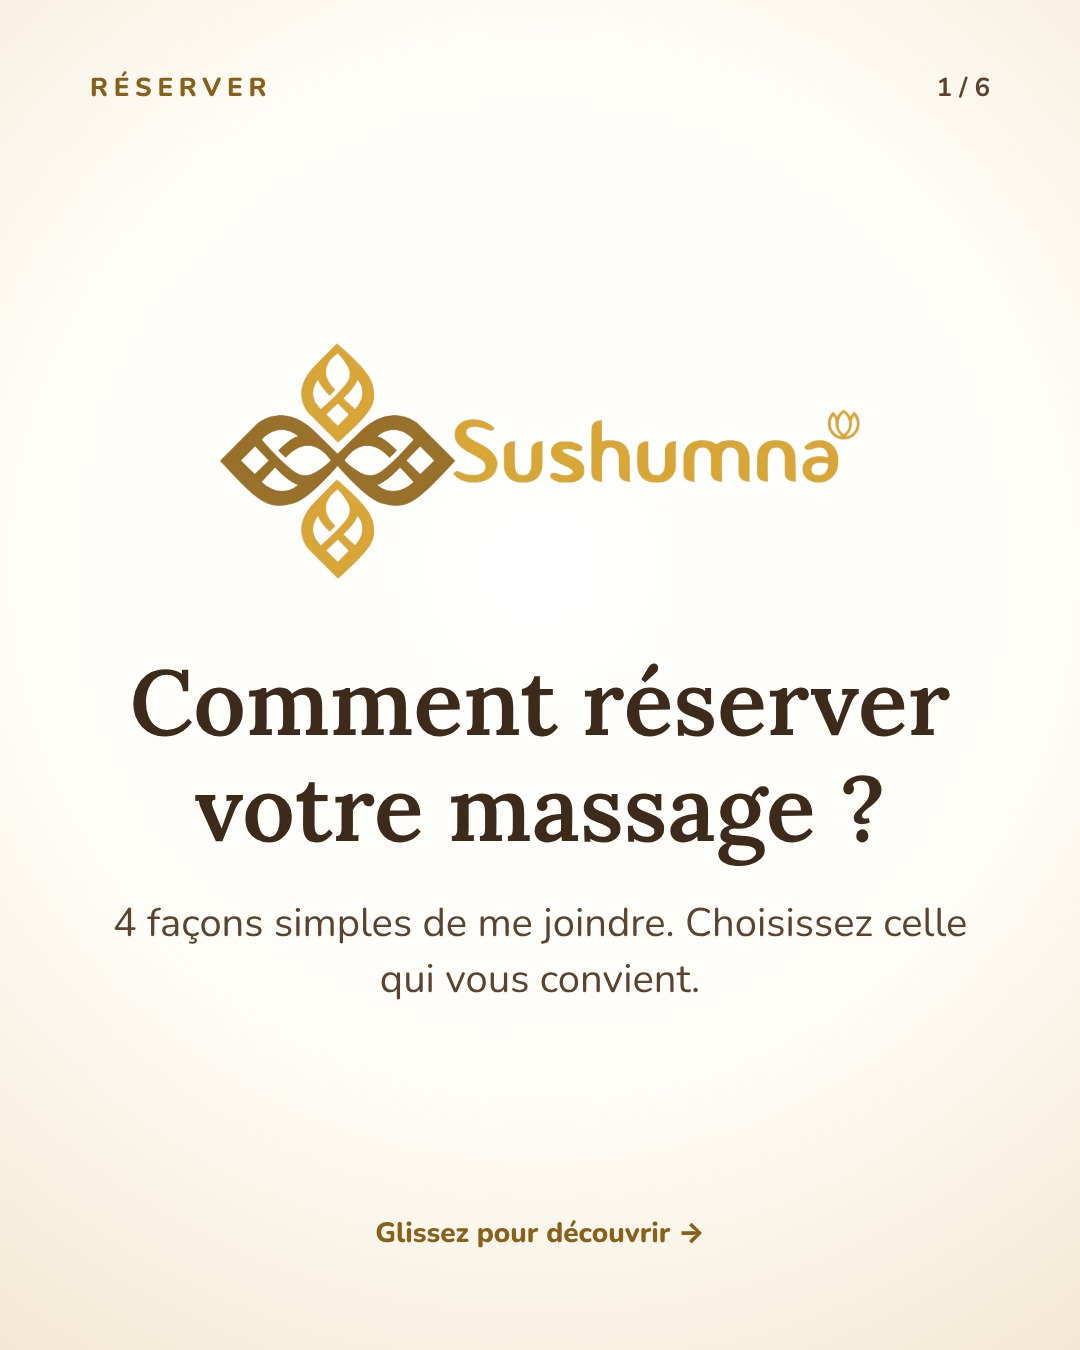
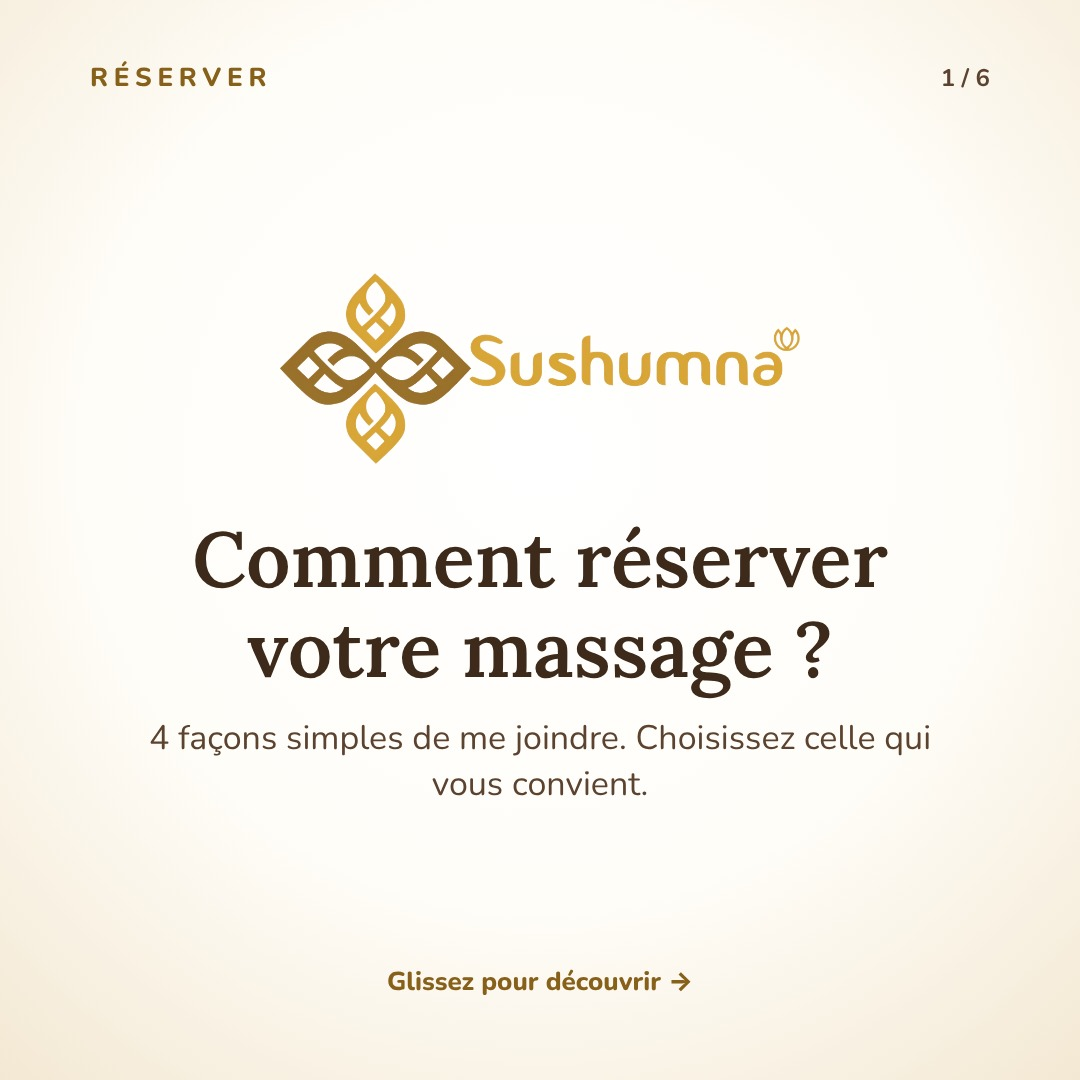
Graphisme : carrousel « Comment réserver » en carré 1080 × 1080
Claude-Session: https://claude.ai/code/session_01FhKW6d7NffjTyYvYf6zG3G

diff --git a/graphisme/sources/44-carrousel-reserver-couverture.html b/graphisme/sources/44-carrousel-reserver-couverture.html
@@ -27,9 +27,16 @@ body{width:var(--w);height:var(--h);overflow:hidden;background:var(--creme);colo
 .rond .ico{width:130px;height:130px;color:var(--brun-logo)}
 .titre{font-size:92px;margin:0 0 34px}
 .texte{font-size:40px;line-height:1.4;color:var(--brun-doux);max-width:860px;margin:0}
-.pied{position:absolute;bottom:70px;left:90px;right:90px;font-size:28px;font-weight:800;color:var(--or-texte);text-align:center}</style>
+.pied{position:absolute;bottom:70px;left:90px;right:90px;font-size:28px;font-weight:800;color:var(--or-texte);text-align:center}.page{padding:0 90px}
+.haut{top:60px}
+.rond{width:230px;height:230px;margin-bottom:40px}
+.rond .ico{width:100px;height:100px}
+.titre{font-size:78px;margin:0 0 22px}
+.texte{font-size:34px;line-height:1.35}
+.pied{bottom:55px;font-size:26px}
+.compteur{font-size:24px}</style>
 </head>
-<body style="--w:1080px;--h:1350px">
+<body style="--w:1080px;--h:1080px">
 <svg width="0" height="0" style="position:absolute" aria-hidden="true">
   <symbol id="tel" viewBox="0 0 24 24"><path fill="none" stroke="currentColor" stroke-width="2" stroke-linecap="round" stroke-linejoin="round" d="M22 16.9v3a2 2 0 0 1-2.2 2 19.8 19.8 0 0 1-8.6-3.1 19.5 19.5 0 0 1-6-6A19.8 19.8 0 0 1 2.1 4.2 2 2 0 0 1 4.1 2h3a2 2 0 0 1 2 1.7c.1 1 .4 1.9.7 2.8a2 2 0 0 1-.5 2.1L8 9.9a16 16 0 0 0 6 6l1.3-1.3a2 2 0 0 1 2.1-.4c.9.3 1.8.6 2.8.7a2 2 0 0 1 1.7 2z"/></symbol>
   <symbol id="mail" viewBox="0 0 24 24"><g fill="none" stroke="currentColor" stroke-width="2" stroke-linecap="round" stroke-linejoin="round"><rect x="2" y="4" width="20" height="16" rx="2"/><path d="m22 7-10 6L2 7"/></g></symbol>
@@ -47,7 +54,7 @@ body{width:var(--w);height:var(--h);overflow:hidden;background:var(--creme);colo
   <symbol id="discussion" viewBox="0 0 24 24"><path fill="none" stroke="currentColor" stroke-width="2" stroke-linecap="round" stroke-linejoin="round" d="M21 15a2 2 0 0 1-2 2H7l-4 4V5a2 2 0 0 1 2-2h14a2 2 0 0 1 2 2z"/></symbol>
 </svg>
 <div class="page"><div class="haut"><span class="surtitre">Réserver</span><span class="compteur">1 / 6</span></div>
-<img src="../assets/logo-hd.png" alt="Sushumna" style="width:640px;height:auto;margin-bottom:70px">
+<img src="../assets/logo-hd.png" alt="Sushumna" style="width:520px;height:auto;margin-bottom:50px">
 <h1 class="titre">Comment réserver votre massage&nbsp;?</h1>
 <p class="texte">4 façons simples de me joindre. Choisissez celle qui vous convient.</p>
 <p class="pied">Glissez pour découvrir →</p></div>

diff --git a/graphisme/generer.js b/graphisme/generer.js
@@ -471,6 +471,16 @@ const CSS_CARROUSEL = `.page{justify-content:center;background:radial-gradient(c
 .texte{font-size:40px;line-height:1.4;color:var(--brun-doux);max-width:860px;margin:0}
 .pied{position:absolute;bottom:70px;left:90px;right:90px;font-size:28px;font-weight:800;color:var(--or-texte);text-align:center}`;
 
+/* Version carrée : éléments resserrés pour tenir dans 1080 × 1080 */
+const CSS_CARROUSEL_CARRE = `.page{padding:0 90px}
+.haut{top:60px}
+.rond{width:230px;height:230px;margin-bottom:40px}
+.rond .ico{width:100px;height:100px}
+.titre{font-size:78px;margin:0 0 22px}
+.texte{font-size:34px;line-height:1.35}
+.pied{bottom:55px;font-size:26px}
+.compteur{font-size:24px}`;
+
 CARROUSEL_RESERVER.forEach((diapo, i) => {
   const numero = String(44 + i).padStart(2, '0');
   const compteur = `${i + 1} / ${CARROUSEL_RESERVER.length}`;
@@ -479,7 +489,7 @@ CARROUSEL_RESERVER.forEach((diapo, i) => {
   if (diapo.nom === 'couverture') {
     nom = `${numero}-carrousel-reserver-couverture`;
     corps = `<div class="haut"><span class="surtitre">Réserver</span><span class="compteur">${compteur}</span></div>
-<img src="../assets/logo-hd.png" alt="Sushumna" style="width:640px;height:auto;margin-bottom:70px">
+<img src="../assets/logo-hd.png" alt="Sushumna" style="width:520px;height:auto;margin-bottom:50px">
 <h1 class="titre">Comment réserver votre massage&nbsp;?</h1>
 <p class="texte">4 façons simples de me joindre. Choisissez celle qui vous convient.</p>
 <p class="pied">Glissez pour découvrir →</p>`;
@@ -499,8 +509,8 @@ CARROUSEL_RESERVER.forEach((diapo, i) => {
 <p class="pied">${diapo.pied} ${i < CARROUSEL_RESERVER.length - 1 ? '→' : ''}</p>`;
   }
   PAGES.push({
-    nom, w: 1080, h: 1350, echelle: 1,
-    html: document_({ w: 1080, h: 1350, css: CSS_CARROUSEL, body: corps }),
+    nom, w: 1080, h: 1080, echelle: 1,
+    html: document_({ w: 1080, h: 1080, css: CSS_CARROUSEL + CSS_CARROUSEL_CARRE, body: corps }),
   });
 });
 

diff --git a/graphisme/sources/45-carrousel-reserver-sur-le-site.html b/graphisme/sources/45-carrousel-reserver-sur-le-site.html
@@ -27,9 +27,16 @@ body{width:var(--w);height:var(--h);overflow:hidden;background:var(--creme);colo
 .rond .ico{width:130px;height:130px;color:var(--brun-logo)}
 .titre{font-size:92px;margin:0 0 34px}
 .texte{font-size:40px;line-height:1.4;color:var(--brun-doux);max-width:860px;margin:0}
-.pied{position:absolute;bottom:70px;left:90px;right:90px;font-size:28px;font-weight:800;color:var(--or-texte);text-align:center}</style>
+.pied{position:absolute;bottom:70px;left:90px;right:90px;font-size:28px;font-weight:800;color:var(--or-texte);text-align:center}.page{padding:0 90px}
+.haut{top:60px}
+.rond{width:230px;height:230px;margin-bottom:40px}
+.rond .ico{width:100px;height:100px}
+.titre{font-size:78px;margin:0 0 22px}
+.texte{font-size:34px;line-height:1.35}
+.pied{bottom:55px;font-size:26px}
+.compteur{font-size:24px}</style>
 </head>
-<body style="--w:1080px;--h:1350px">
+<body style="--w:1080px;--h:1080px">
 <svg width="0" height="0" style="position:absolute" aria-hidden="true">
   <symbol id="tel" viewBox="0 0 24 24"><path fill="none" stroke="currentColor" stroke-width="2" stroke-linecap="round" stroke-linejoin="round" d="M22 16.9v3a2 2 0 0 1-2.2 2 19.8 19.8 0 0 1-8.6-3.1 19.5 19.5 0 0 1-6-6A19.8 19.8 0 0 1 2.1 4.2 2 2 0 0 1 4.1 2h3a2 2 0 0 1 2 1.7c.1 1 .4 1.9.7 2.8a2 2 0 0 1-.5 2.1L8 9.9a16 16 0 0 0 6 6l1.3-1.3a2 2 0 0 1 2.1-.4c.9.3 1.8.6 2.8.7a2 2 0 0 1 1.7 2z"/></symbol>
   <symbol id="mail" viewBox="0 0 24 24"><g fill="none" stroke="currentColor" stroke-width="2" stroke-linecap="round" stroke-linejoin="round"><rect x="2" y="4" width="20" height="16" rx="2"/><path d="m22 7-10 6L2 7"/></g></symbol>

diff --git a/graphisme/sources/46-carrousel-reserver-par-whatsapp.html b/graphisme/sources/46-carrousel-reserver-par-whatsapp.html
@@ -27,9 +27,16 @@ body{width:var(--w);height:var(--h);overflow:hidden;background:var(--creme);colo
 .rond .ico{width:130px;height:130px;color:var(--brun-logo)}
 .titre{font-size:92px;margin:0 0 34px}
 .texte{font-size:40px;line-height:1.4;color:var(--brun-doux);max-width:860px;margin:0}
-.pied{position:absolute;bottom:70px;left:90px;right:90px;font-size:28px;font-weight:800;color:var(--or-texte);text-align:center}</style>
+.pied{position:absolute;bottom:70px;left:90px;right:90px;font-size:28px;font-weight:800;color:var(--or-texte);text-align:center}.page{padding:0 90px}
+.haut{top:60px}
+.rond{width:230px;height:230px;margin-bottom:40px}
+.rond .ico{width:100px;height:100px}
+.titre{font-size:78px;margin:0 0 22px}
+.texte{font-size:34px;line-height:1.35}
+.pied{bottom:55px;font-size:26px}
+.compteur{font-size:24px}</style>
 </head>
-<body style="--w:1080px;--h:1350px">
+<body style="--w:1080px;--h:1080px">
 <svg width="0" height="0" style="position:absolute" aria-hidden="true">
   <symbol id="tel" viewBox="0 0 24 24"><path fill="none" stroke="currentColor" stroke-width="2" stroke-linecap="round" stroke-linejoin="round" d="M22 16.9v3a2 2 0 0 1-2.2 2 19.8 19.8 0 0 1-8.6-3.1 19.5 19.5 0 0 1-6-6A19.8 19.8 0 0 1 2.1 4.2 2 2 0 0 1 4.1 2h3a2 2 0 0 1 2 1.7c.1 1 .4 1.9.7 2.8a2 2 0 0 1-.5 2.1L8 9.9a16 16 0 0 0 6 6l1.3-1.3a2 2 0 0 1 2.1-.4c.9.3 1.8.6 2.8.7a2 2 0 0 1 1.7 2z"/></symbol>
   <symbol id="mail" viewBox="0 0 24 24"><g fill="none" stroke="currentColor" stroke-width="2" stroke-linecap="round" stroke-linejoin="round"><rect x="2" y="4" width="20" height="16" rx="2"/><path d="m22 7-10 6L2 7"/></g></symbol>

diff --git a/graphisme/sources/47-carrousel-reserver-par-telephone.html b/graphisme/sources/47-carrousel-reserver-par-telephone.html
@@ -27,9 +27,16 @@ body{width:var(--w);height:var(--h);overflow:hidden;background:var(--creme);colo
 .rond .ico{width:130px;height:130px;color:var(--brun-logo)}
 .titre{font-size:92px;margin:0 0 34px}
 .texte{font-size:40px;line-height:1.4;color:var(--brun-doux);max-width:860px;margin:0}
-.pied{position:absolute;bottom:70px;left:90px;right:90px;font-size:28px;font-weight:800;color:var(--or-texte);text-align:center}</style>
+.pied{position:absolute;bottom:70px;left:90px;right:90px;font-size:28px;font-weight:800;color:var(--or-texte);text-align:center}.page{padding:0 90px}
+.haut{top:60px}
+.rond{width:230px;height:230px;margin-bottom:40px}
+.rond .ico{width:100px;height:100px}
+.titre{font-size:78px;margin:0 0 22px}
+.texte{font-size:34px;line-height:1.35}
+.pied{bottom:55px;font-size:26px}
+.compteur{font-size:24px}</style>
 </head>
-<body style="--w:1080px;--h:1350px">
+<body style="--w:1080px;--h:1080px">
 <svg width="0" height="0" style="position:absolute" aria-hidden="true">
   <symbol id="tel" viewBox="0 0 24 24"><path fill="none" stroke="currentColor" stroke-width="2" stroke-linecap="round" stroke-linejoin="round" d="M22 16.9v3a2 2 0 0 1-2.2 2 19.8 19.8 0 0 1-8.6-3.1 19.5 19.5 0 0 1-6-6A19.8 19.8 0 0 1 2.1 4.2 2 2 0 0 1 4.1 2h3a2 2 0 0 1 2 1.7c.1 1 .4 1.9.7 2.8a2 2 0 0 1-.5 2.1L8 9.9a16 16 0 0 0 6 6l1.3-1.3a2 2 0 0 1 2.1-.4c.9.3 1.8.6 2.8.7a2 2 0 0 1 1.7 2z"/></symbol>
   <symbol id="mail" viewBox="0 0 24 24"><g fill="none" stroke="currentColor" stroke-width="2" stroke-linecap="round" stroke-linejoin="round"><rect x="2" y="4" width="20" height="16" rx="2"/><path d="m22 7-10 6L2 7"/></g></symbol>

diff --git a/graphisme/sources/48-carrousel-reserver-sur-instagram.html b/graphisme/sources/48-carrousel-reserver-sur-instagram.html
@@ -27,9 +27,16 @@ body{width:var(--w);height:var(--h);overflow:hidden;background:var(--creme);colo
 .rond .ico{width:130px;height:130px;color:var(--brun-logo)}
 .titre{font-size:92px;margin:0 0 34px}
 .texte{font-size:40px;line-height:1.4;color:var(--brun-doux);max-width:860px;margin:0}
-.pied{position:absolute;bottom:70px;left:90px;right:90px;font-size:28px;font-weight:800;color:var(--or-texte);text-align:center}</style>
+.pied{position:absolute;bottom:70px;left:90px;right:90px;font-size:28px;font-weight:800;color:var(--or-texte);text-align:center}.page{padding:0 90px}
+.haut{top:60px}
+.rond{width:230px;height:230px;margin-bottom:40px}
+.rond .ico{width:100px;height:100px}
+.titre{font-size:78px;margin:0 0 22px}
+.texte{font-size:34px;line-height:1.35}
+.pied{bottom:55px;font-size:26px}
+.compteur{font-size:24px}</style>
 </head>
-<body style="--w:1080px;--h:1350px">
+<body style="--w:1080px;--h:1080px">
 <svg width="0" height="0" style="position:absolute" aria-hidden="true">
   <symbol id="tel" viewBox="0 0 24 24"><path fill="none" stroke="currentColor" stroke-width="2" stroke-linecap="round" stroke-linejoin="round" d="M22 16.9v3a2 2 0 0 1-2.2 2 19.8 19.8 0 0 1-8.6-3.1 19.5 19.5 0 0 1-6-6A19.8 19.8 0 0 1 2.1 4.2 2 2 0 0 1 4.1 2h3a2 2 0 0 1 2 1.7c.1 1 .4 1.9.7 2.8a2 2 0 0 1-.5 2.1L8 9.9a16 16 0 0 0 6 6l1.3-1.3a2 2 0 0 1 2.1-.4c.9.3 1.8.6 2.8.7a2 2 0 0 1 1.7 2z"/></symbol>
   <symbol id="mail" viewBox="0 0 24 24"><g fill="none" stroke="currentColor" stroke-width="2" stroke-linecap="round" stroke-linejoin="round"><rect x="2" y="4" width="20" height="16" rx="2"/><path d="m22 7-10 6L2 7"/></g></symbol>

diff --git a/graphisme/sources/49-carrousel-reserver-fin.html b/graphisme/sources/49-carrousel-reserver-fin.html
@@ -27,9 +27,16 @@ body{width:var(--w);height:var(--h);overflow:hidden;background:var(--creme);colo
 .rond .ico{width:130px;height:130px;color:var(--brun-logo)}
 .titre{font-size:92px;margin:0 0 34px}
 .texte{font-size:40px;line-height:1.4;color:var(--brun-doux);max-width:860px;margin:0}
-.pied{position:absolute;bottom:70px;left:90px;right:90px;font-size:28px;font-weight:800;color:var(--or-texte);text-align:center}</style>
+.pied{position:absolute;bottom:70px;left:90px;right:90px;font-size:28px;font-weight:800;color:var(--or-texte);text-align:center}.page{padding:0 90px}
+.haut{top:60px}
+.rond{width:230px;height:230px;margin-bottom:40px}
+.rond .ico{width:100px;height:100px}
+.titre{font-size:78px;margin:0 0 22px}
+.texte{font-size:34px;line-height:1.35}
+.pied{bottom:55px;font-size:26px}
+.compteur{font-size:24px}</style>
 </head>
-<body style="--w:1080px;--h:1350px">
+<body style="--w:1080px;--h:1080px">
 <svg width="0" height="0" style="position:absolute" aria-hidden="true">
   <symbol id="tel" viewBox="0 0 24 24"><path fill="none" stroke="currentColor" stroke-width="2" stroke-linecap="round" stroke-linejoin="round" d="M22 16.9v3a2 2 0 0 1-2.2 2 19.8 19.8 0 0 1-8.6-3.1 19.5 19.5 0 0 1-6-6A19.8 19.8 0 0 1 2.1 4.2 2 2 0 0 1 4.1 2h3a2 2 0 0 1 2 1.7c.1 1 .4 1.9.7 2.8a2 2 0 0 1-.5 2.1L8 9.9a16 16 0 0 0 6 6l1.3-1.3a2 2 0 0 1 2.1-.4c.9.3 1.8.6 2.8.7a2 2 0 0 1 1.7 2z"/></symbol>
   <symbol id="mail" viewBox="0 0 24 24"><g fill="none" stroke="currentColor" stroke-width="2" stroke-linecap="round" stroke-linejoin="round"><rect x="2" y="4" width="20" height="16" rx="2"/><path d="m22 7-10 6L2 7"/></g></symbol>
